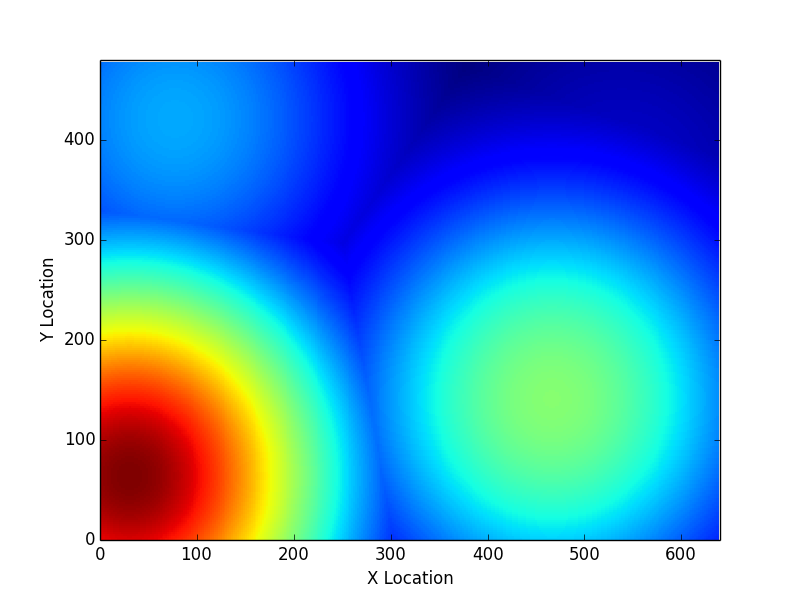
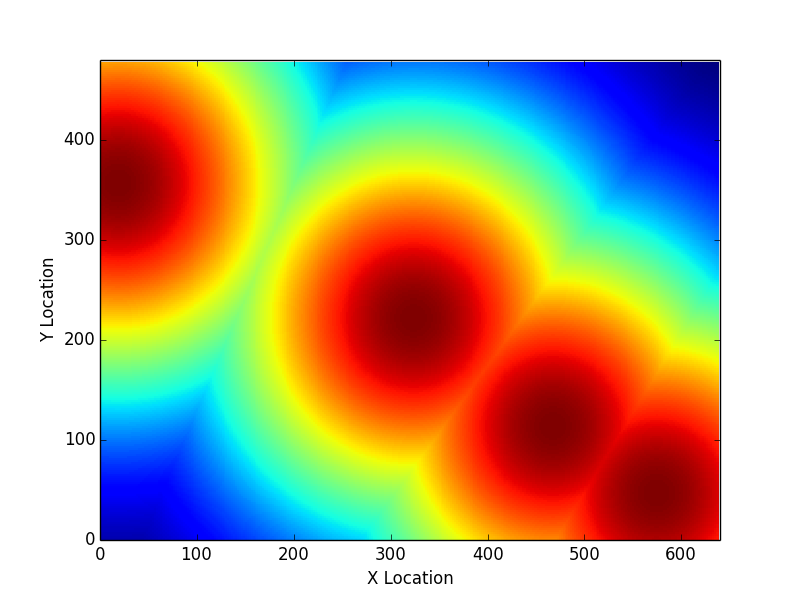
Change risk evaluation

diff --git a/rover/timegrid.py b/rover/timegrid.py
@@ -7,8 +7,9 @@ import numpy as np
 class TimeGrid(object):
 
     def __init__(self, width, height):
-        self.width = width
-        self.height = height
+        self.scaling_factor = 16
+        self.width = width // self.scaling_factor
+        self.height = height // self.scaling_factor
         self.grid = np.zeros((height, width))
         self.init_grid(self.grid)
 
@@ -21,9 +22,10 @@ class TimeGrid(object):
 
 
     def update_grid(self, quad):
-        x = quad.x
-        y = quad.y
-        radius = int(quad.get_sensor_radius())
+        # scale this dude
+        x = quad.x // self.scaling_factor
+        y = quad.y // self.scaling_factor
+        radius = int(quad.get_sensor_radius()) // self.scaling_factor
 
         top_left_x = x - radius if x - radius > 0 else 0
         top_left_y = y - radius if y - radius > 0 else 0
@@ -46,13 +48,23 @@ class TimeGrid(object):
             for y_i in xrange(top_left_y, bottom_right_y + 1):
                 dist = math.sqrt(pow(x - x_i, 2) + pow(y - y_i, 2))
                 if dist <= radius:
-                    self[x_i, y_i] = current_time
+                    self.raw_set_item(x_i, y_i, current_time)
+
+
+    def raw_set_item(self, x, y, value):
+        self.grid[y, x] = value
 
 
     def __getitem__(self, index):
-        return self.grid[index[1], index[0]]
+        return self.grid[
+            index[1] // self.scaling_factor,
+            index[0] // self.scaling_factor
+        ]
 
 
     def __setitem__(self, index, value):
-        self.grid[index[1], index[0]] = value
+        self.grid[
+            index[1] // self.scaling_factor,
+            index[0] // self.scaling_factor
+        ] = value
 

diff --git a/rover/planner.py b/rover/planner.py
@@ -25,17 +25,17 @@ class Planner(object):
         def risk_sq(z):
             init_risk = float(self.risk_grid.get_risk(x, y))
             sq = math.pow(self.problem.min_height / float(z), 2)
-            risk = 1 - math.pow(float(z - self.problem.min_height) /\
+            risk = init_risk * (1 - math.pow(float(z - self.problem.min_height) /\
                 (init_risk * (self.problem.max_height -\
-                self.problem.min_height)), 2)
-            return risk - sq
+                self.problem.min_height)), 2))
+            return abs(risk - sq)
 
         return risk_sq
 
 
     def determine_height(self, x, y):
         risk_sq_func = self.get_risk_sq_func(x, y)
-        res = opt.fsolve(risk_sq_func, self.problem.max_height)
+        res = opt.fmin(risk_sq_func, self.problem.max_height, disp=0)
         return int(res[0])
 
 
@@ -148,12 +148,17 @@ class Planner(object):
         return min_x_y.to_unit_vector()
 
 
+    def update_quad(self, quad):
+        uv = self.get_new_direction(quad)
+        quad.move_2d(uv)
+        self.problem.grid.update_grid(quad)
+        quad.set_z(self.determine_height(quad.x, quad.y))
+
+
+
     def step(self):
         for quad in self.quad_list:
-            uv = self.get_new_direction(quad)
-            quad.move_2d(uv)
-            self.problem.grid.update_grid(quad)
-            quad.set_z(self.determine_height(quad.x, quad.y))
+            self.update_quad(quad)
 
         return self.quad_list
 

diff --git a/rover/riskgrid.py b/rover/riskgrid.py
@@ -20,7 +20,7 @@ class RiskGrid(object):
             x = random.randint(0, self.problem.width)
             y = random.randint(0, self.problem.height)
             sensor_range = min(self.problem.width, self.problem.height)
-            init_risk = random.random()
+            init_risk = 1.0
             self.add_risk_point(x, y, sensor_range, init_risk)
 
 
@@ -53,9 +53,10 @@ class RiskGrid(object):
 
     def get_risk_3d(self, x, y, z):
         init_risk = self.get_risk(x, y)
-        actual_risk = -1 * z * float(init_risk) / (
-            self.problem.max_height - self.problem.min_height
-        ) + init_risk
+
+        actual_risk = init_risk * (1 - pow(z - self.problem.min_height, 2) /\
+            pow(init_risk * (self.problem.max_height -\
+            self.problem.min_height), 2))
         return actual_risk
 
 

diff --git a/rover/config.py b/rover/config.py
@@ -22,9 +22,9 @@ class Problem(object):
     def __init__(self, **kwargs):
         self.width = kwargs.get("width", 640)
         self.height = kwargs.get("height", 480)
-        self.num_quads = kwargs.get("num_quads", 10)
+        self.num_quads = kwargs.get("num_quads", 20)
         self.min_height = kwargs.get("min_height", 60)
-        self.max_height = kwargs.get("max_height", 300)
+        self.max_height = kwargs.get("max_height", 200)
         self.step_size = kwargs.get("step_size", 10)
         self.quad_size = kwargs.get("quad_size", 4)
         self.evader_size = kwargs.get("evader_size", 6)
